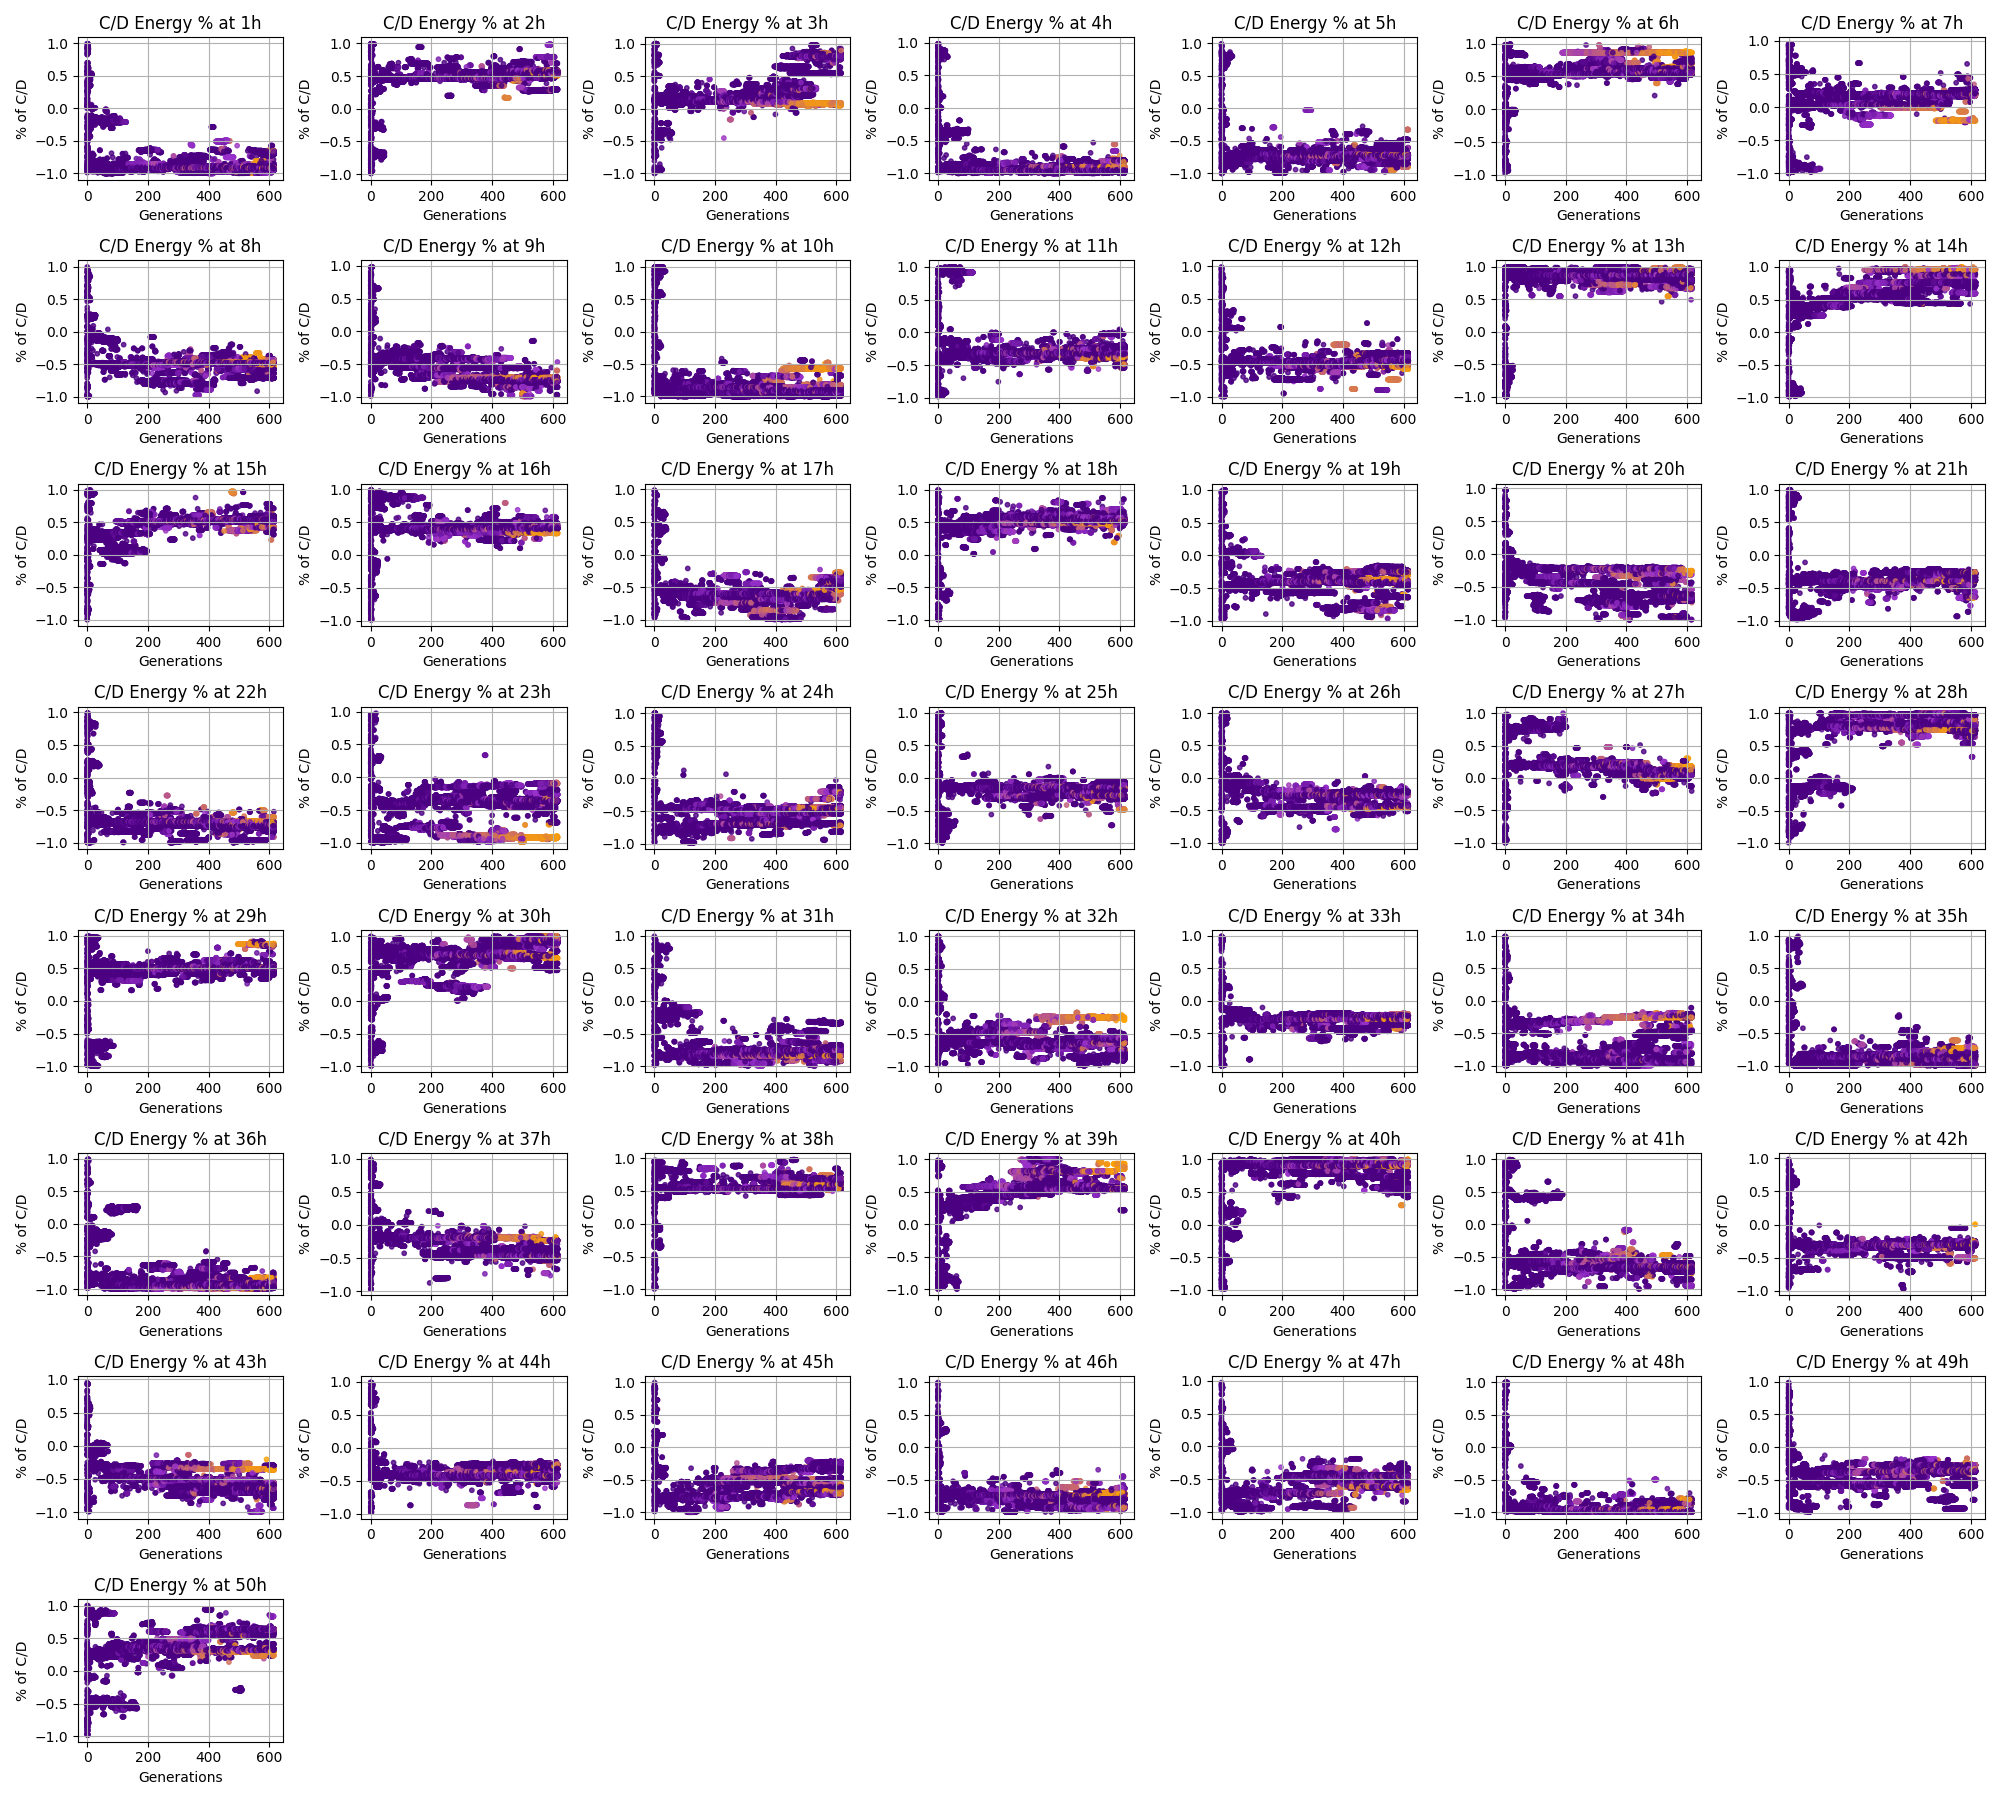
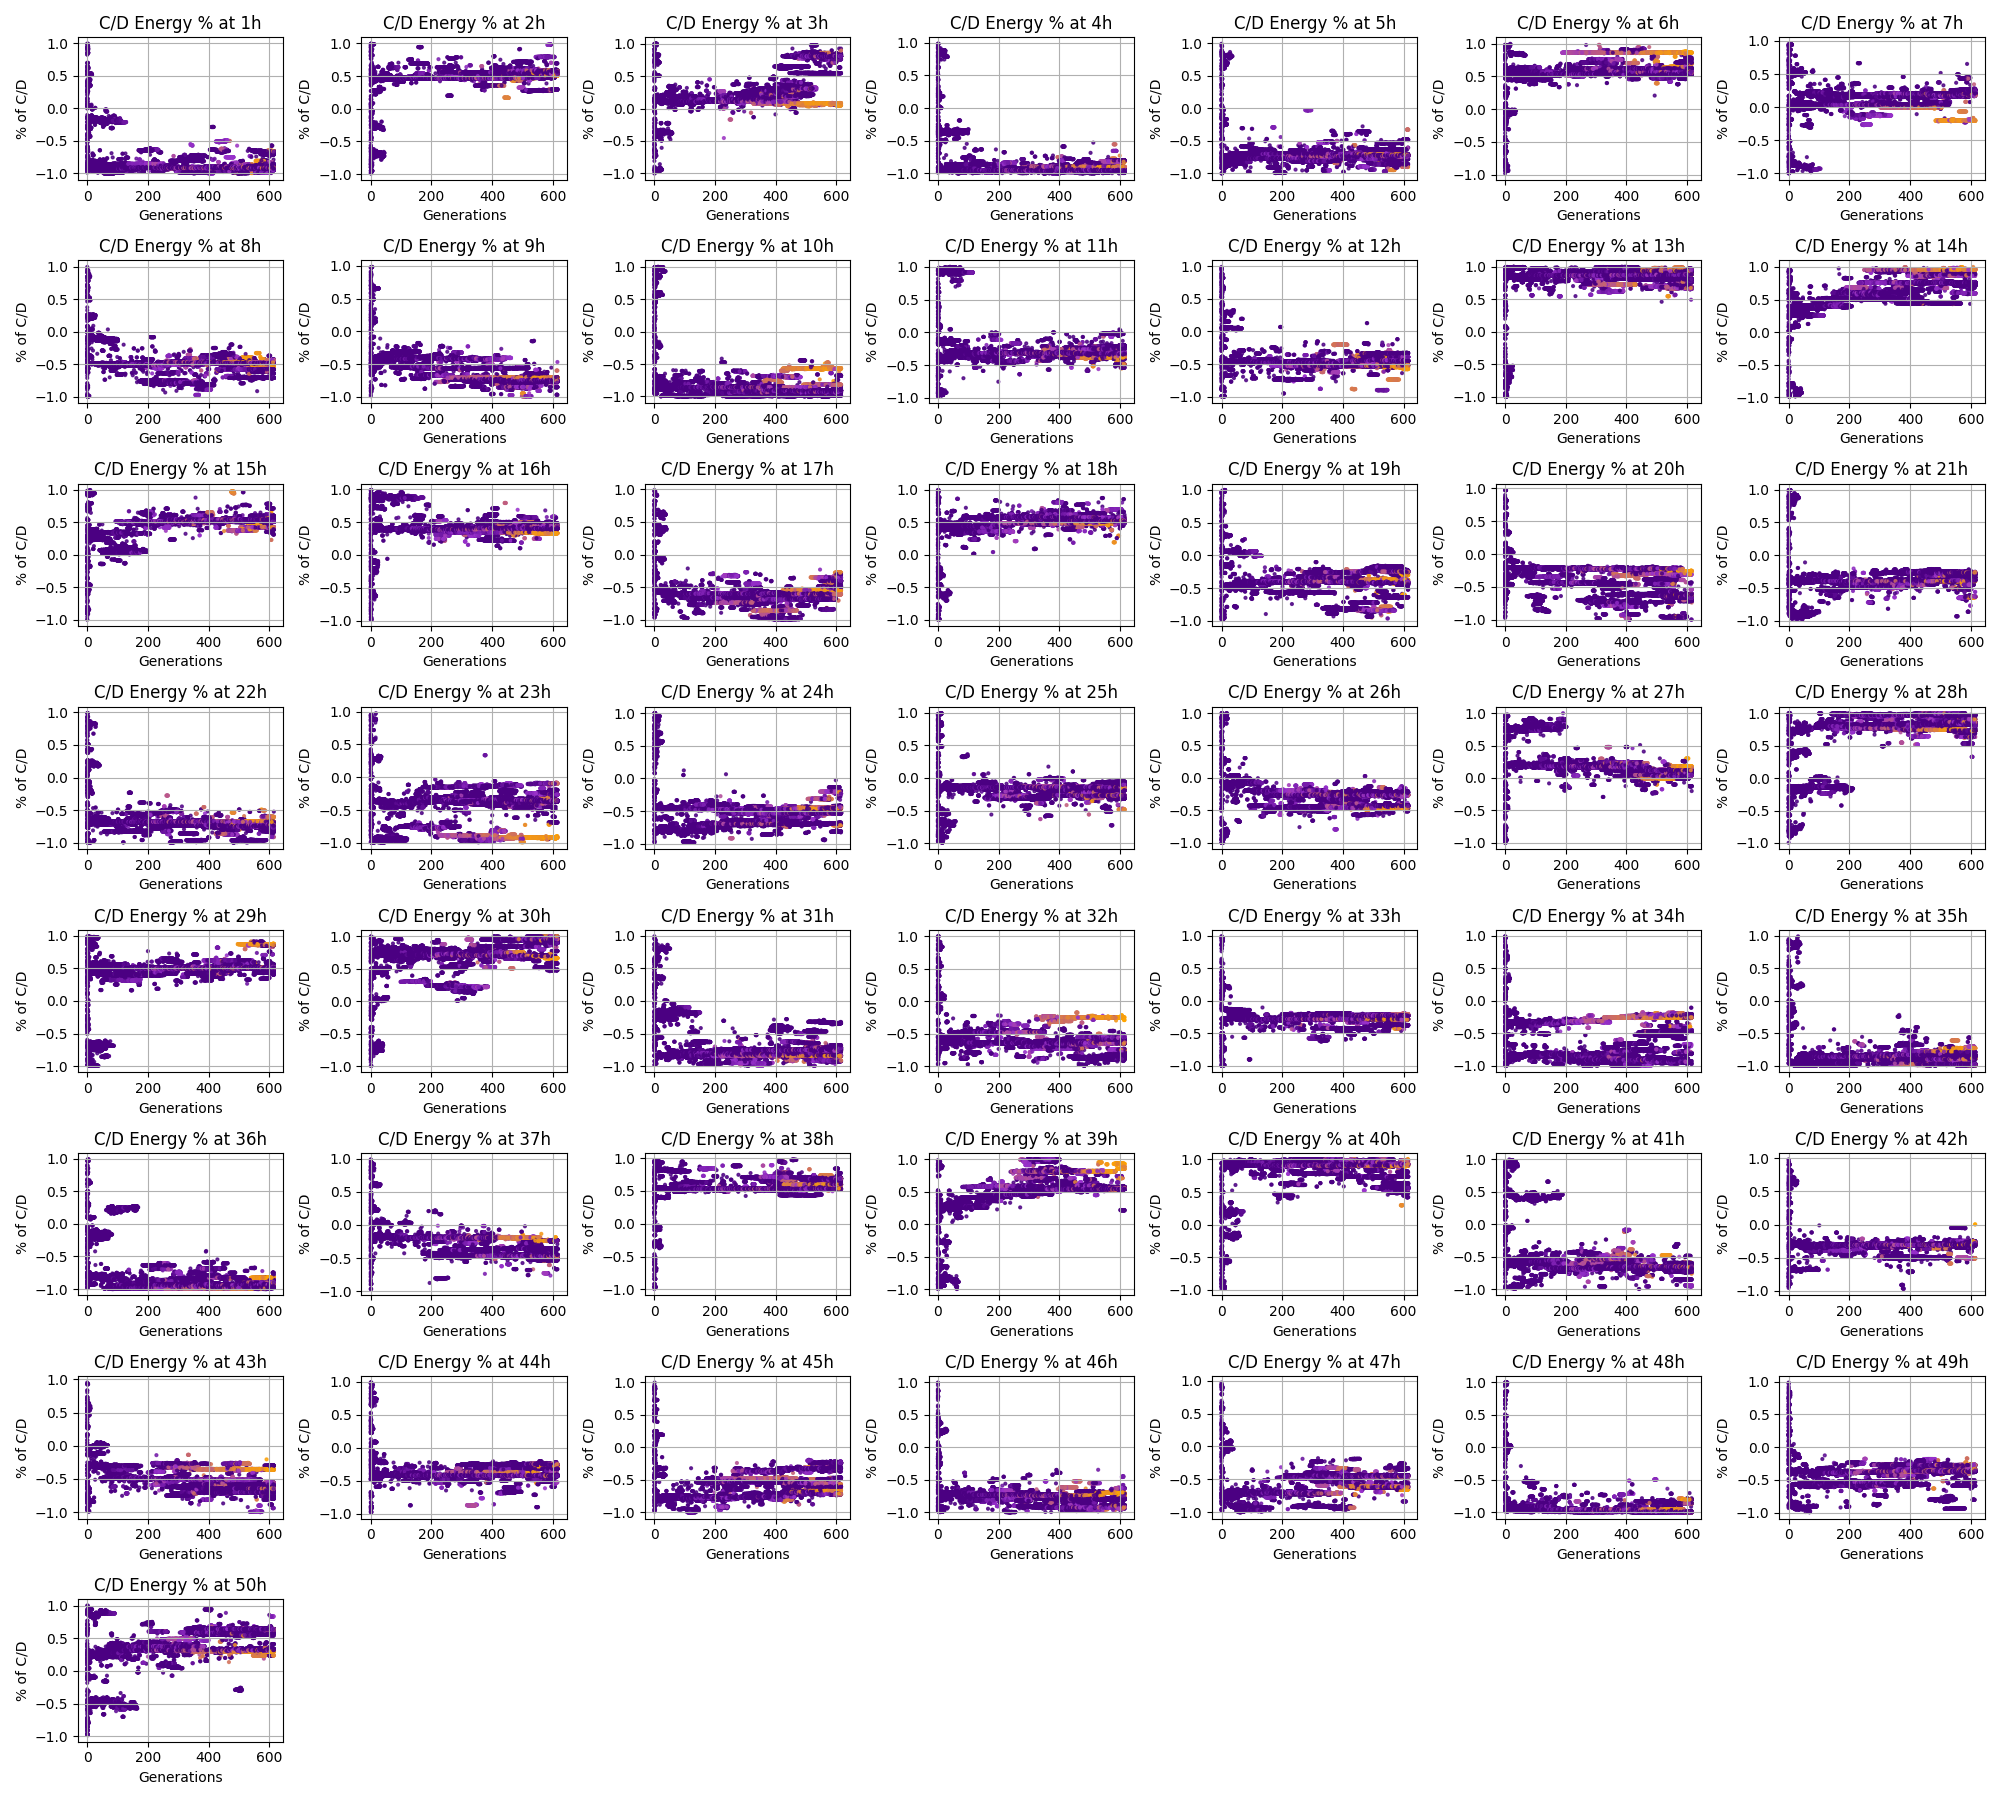
Updated Convergence graph

diff --git a/Plots.py b/Plots.py
@@ -241,7 +241,7 @@ class EnergyPlots:
                 for i in range(pop_size):
                     # Calculate colors based on normalized Y values for individual i
                     colors = cmap(norm(Y[:, i])*10)
-                    ax.scatter(timesteps, X[:, i, start + k], s=10, alpha=0.8, c=colors)
+                    ax.scatter(timesteps, X[:, i, start + k], s=4, alpha=0.8, c=colors)
 
                 # Set title and labels for the subplot
                 ax.set_title(f'C/D Energy % at {start + k + 1}h')
